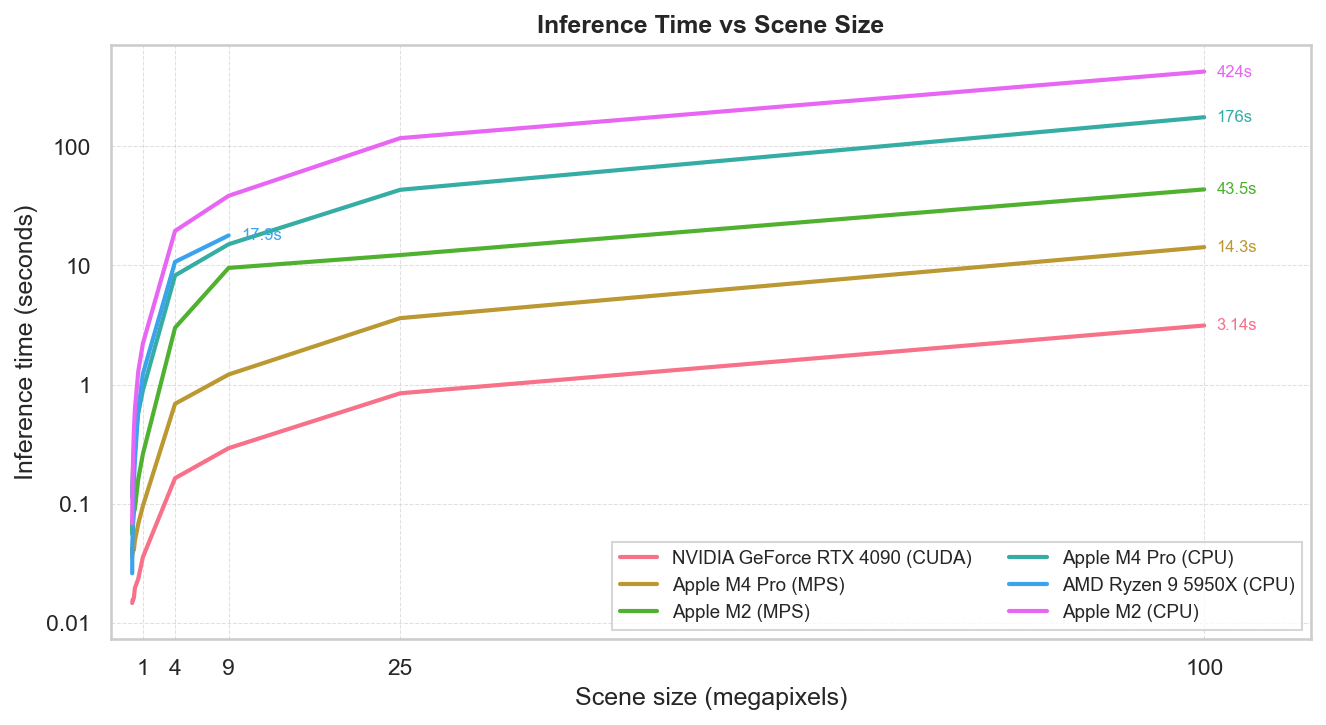
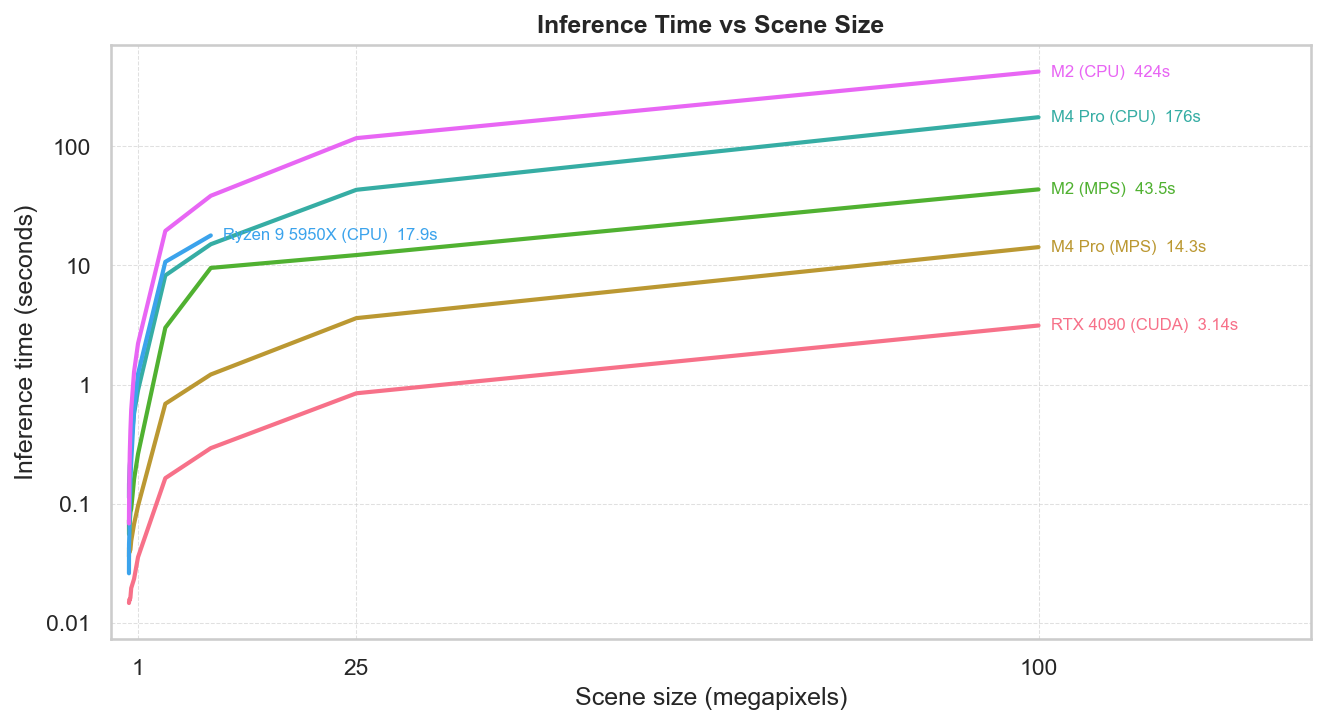
nicer chart

diff --git a/benchmarking/generate_docs_table.py b/benchmarking/generate_docs_table.py
@@ -3,7 +3,6 @@
 import json
 import re
 from pathlib import Path
-from typing import Any
 
 RESULTS_DIR = Path(__file__).parent / "results"
 DOCS_DIR = Path(__file__).parent.parent / "docs"
@@ -141,6 +140,17 @@ def make_tables(data: dict) -> list[tuple[float, str]]:
     return sections
 
 
+_VENDOR_PREFIXES = ("Apple ", "NVIDIA GeForce ", "NVIDIA ", "Intel Core ", "AMD ")
+
+
+def _short_hw_name(name: str) -> str:
+    """Strip common vendor prefixes, e.g. 'NVIDIA GeForce RTX 4090' → 'RTX 4090'."""
+    for prefix in _VENDOR_PREFIXES:
+        if name.startswith(prefix):
+            return name[len(prefix):]
+    return name
+
+
 def _wrap_hw_name(name: str, max_len: int = 12) -> str:
     """Insert <br> at the last word boundary before max_len chars."""
     if len(name) <= max_len:
@@ -242,13 +252,14 @@ def make_plot(all_data: list[dict]) -> None:
     series.sort(key=lambda s: s[0])
 
     palette = sns.color_palette("husl", len(series))
-    plot_handles: list[tuple[float, Any, str]] = []
-    for i, (sort_key, _device, label, megapixels, times) in enumerate(series):
+    for i, (*_, label, megapixels, times) in enumerate(series):
         color = palette[i]
-        (line,) = ax.plot(megapixels, times, "-", label=label, color=color, lw=2)
-        plot_handles.append((sort_key, line, label))
+        ax.plot(megapixels, times, "-", color=color, lw=2)
+        hw_name = label.rsplit(" (", 1)[0]
+        short = _short_hw_name(hw_name)
+        dev_str = label.rsplit(" (", 1)[1].rstrip(")")
         ax.annotate(
-            f"{times[-1]:.3g}s",
+            f"{short} ({dev_str})  {times[-1]:.3g}s",
             xy=(megapixels[-1], times[-1]),
             xytext=(6, 0),
             textcoords="offset points",
@@ -258,12 +269,12 @@ def make_plot(all_data: list[dict]) -> None:
         )
 
     ax.set_yscale("log")
-    ax.set_xlim(left=-2, right=110)
+    ax.set_xlim(left=-2, right=130)
     y_min = min(t for _, _, _, _, times in series for t in times)
     ax.set_ylim(bottom=y_min * 0.5)
     all_x = sorted({mp for _, _, _, megapixels, _ in series for mp in megapixels})
-    preferred = [1, 4, 9, 25, 100]
-    ax.set_xticks([x for x in preferred if x in all_x])
+    preferred = {1, 5, 10, 25, 50, 100}
+    ax.set_xticks([x for x in sorted(preferred & set(all_x))])
     ax.xaxis.set_major_formatter(ticker.FuncFormatter(lambda x, _: f"{x:g}"))
     ax.yaxis.set_major_locator(ticker.LogLocator(base=10, numticks=10))
     ax.yaxis.set_major_formatter(ticker.FuncFormatter(lambda x, _: f"{x:g}"))
@@ -274,12 +285,6 @@ def make_plot(all_data: list[dict]) -> None:
     ax.grid(True, axis="x", linestyle="--", linewidth=0.5, alpha=0.6)
     ax.grid(True, axis="y", which="major", linestyle="--", linewidth=0.5, alpha=0.6)
     ax.grid(False, which="minor")
-    ax.legend(
-        [e[1] for e in plot_handles],
-        [e[2] for e in plot_handles],
-        frameon=True, fancybox=False, shadow=False, fontsize=9,
-        ncol=2, loc="lower right",
-    )
     fig.tight_layout()
     fig.savefig(PLOT_PATH, dpi=150, bbox_inches="tight")
     plt.close(fig)
